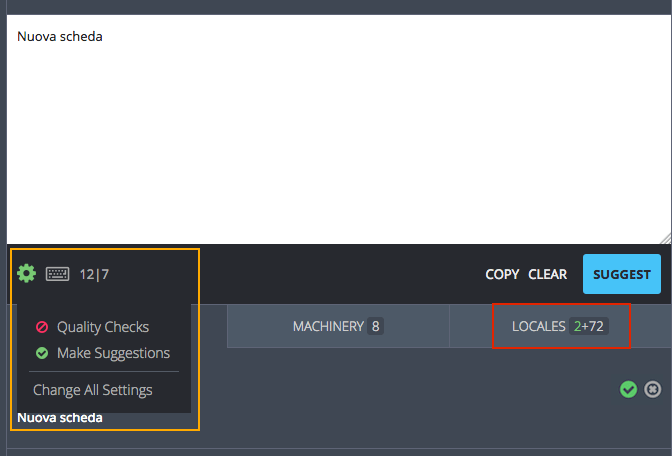
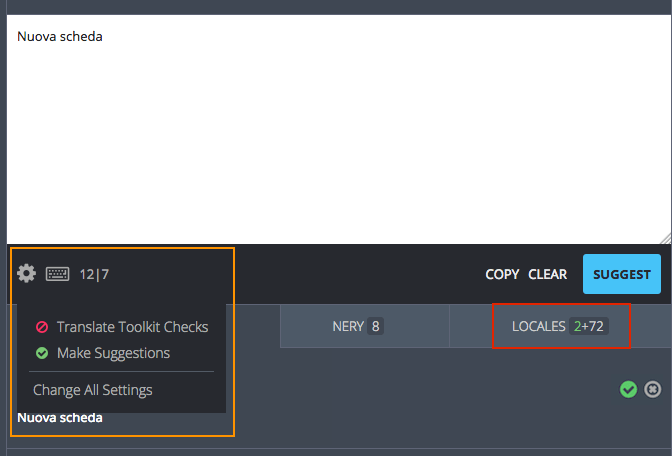
Add documentation for quality checks (bug 1237667) (#118)

diff --git a/tools/pontoon/translate.md b/tools/pontoon/translate.md
@@ -32,6 +32,32 @@ A notification will appear in the window, indicating that `Make Suggestions` has
 
 To switch to Review and Direct Translation Mode, go to the settings menu by clicking on the gear and turn off the `Make Suggestions` option. The green `SAVE` button should appear to the lower-right side of the editing space.
 
+## Quality checks
+
+When submitting a translation or suggestion, Pontoon performs automated quality checks. They are meant to help localizers identify issues with punctuation, capitalization, variables, etc. before translations are saved. There are two types of quality check failures: errors and warnings.
+
+### Errors
+
+Errors cover issues that would cause the string to be ignored, for example removed from Firefox builds or mozilla.org. For this reason, errors cannot be bypassed by localizers - the button to submit a translation is removed and the error needs to be fixed before the translation can be saved.
+
+Examples include exceeding the maximum string length, errors related to variables and placeholders, incorrect number of plural forms in properties files, etc. Errors are denoted with a red circled X.
+
+![Internal check: error](/assets/images/pontoon/translate/check_error.png)
+
+Errors are detected using the [compare-locales library](https://developer.mozilla.org/docs/Mozilla/Projects/compare-locales) and Pontoon’s internal checks.
+
+### Warnings
+
+Warnings, unlike errors, are displayed when it’s not possible to be completely sure that the string contains critical issues. For that reason, warnings can be bypassed by localizers, allowing them to save a translation anyway.
+
+Examples include punctuation, number of sentences, capitalization, etc. Warnings are denoted with a grey circled X.
+
+![Internal check: warning](/assets/images/pontoon/translate/check_warning.png)
+
+Warnings are detected using the [compare-locales library](https://developer.mozilla.org/docs/Mozilla/Projects/compare-locales) and [Translate Toolkit libraries](http://docs.translatehouse.org/projects/translate-toolkit/en/latest/).
+
+Note: since Translate Toolkit checks may result in many false positives in some scenarios, they can be [completely disabled](users.md#user-settings).
+
 ### Review a suggestion
 
 To review a suggestion, search for unreviewed suggestions or click on a suggested string in the sidebar.

diff --git a/tools/pontoon/ui.md b/tools/pontoon/ui.md
@@ -61,11 +61,11 @@ In the upper section of the workspace, the translator can view the source string
 
 The editing space is located in the lower section of the workspace. The translator can edit the translation or suggestion in the text editor.
 
-To the lower-right side of the workspace, the translator can `COPY` the source string to the editor, `CLEAR` the area where translations are typed, and `SUGGEST` or `SAVE` the translation by clicking the corresponding button.
+To the lower-right side of the workspace, the translator can `COPY` the source string to the editor, `CLEAR` the area where translations are typed, and `SUGGEST` or `SAVE` the translation by clicking the corresponding button. This area is also used to [display warnings and errors](translate.md#quality-checks) when submitting a translation.
 
 To the lower-left side, a translator can access the workspace settings, keyboard shortcuts, and view the number of characters in the target and source string.
 
-By clicking the gear icon, the translator can activate or deactivate `Quality Checks` or `Make Suggestions` and navigate to their user settings.
+By clicking the gear icon, the translator can activate or deactivate `Translation Toolkit Checks` or `Make Suggestions` and navigate to their user settings.
 
 ![Settings menu](/assets/images/pontoon/ui/settings.png)
 

diff --git a/tools/pontoon/users.md b/tools/pontoon/users.md
@@ -26,8 +26,8 @@ It’s also possible to set the default homepage displayed when visiting Pontoon
 
 ![Pontoon login](/assets/images/pontoon/users/profile_page.png)
 
-Both *Quality checks* and *Make suggestions* are checkboxes. In the picture above *Quality checks* is disabled while *Make suggestions* is enabled.
-* *Quality checks* (check for number of sentences, placeholders, HTML tags, punctuation, etc.) are performed when saving a translation.
+Both *Translation Toolkit Checks* and *Make suggestions* are checkboxes. In the picture above *Translation Toolkit Checks* is disabled while *Make suggestions* is enabled.
+* *Translation Toolkit Checks* (check for number of sentences, placeholders, HTML tags, punctuation, etc.) are performed when saving a translation. For more information about quality checks see [this document](translate.md#quality-checks).
 * *Make suggestions* allows a translator or a manager to submit suggestions instead of translations.
 
 Both settings can also be changed directly from the gear menu (highlighted in orange) when translating strings. User settings are also accessible from this menu by selecting *Change all settings*.

diff --git a/tools/fluent/brand_names.md b/tools/fluent/brand_names.md
@@ -24,7 +24,7 @@ close-msg = Do you want to close { -brand-short-name }?
 
 `-brand-short-name` is defined as a *term* to allow localizers to define custom attributes, for example to store grammatical properties. Mozilla tools like compare-locales won’t report those attributes as obsolete if the reference language (`en-US`) doesn’t have them. Each language is then free to put information about genders, animacy, the first letter being a vowel or not, and any more into attributes of terms.
 
-Here's an example in English:
+Here’s an example in English:
 
 ```PROPERTIES
 -brand-name = Firefox

diff --git a/misc/bugzilla_l10n.md b/misc/bugzilla_l10n.md
@@ -73,7 +73,7 @@ The list of your saved searches can be displayed by clicking in the search field
 
 ![Remember search](/assets/images/bugzilla/saved_searches.png)
 
-At the bottom of the page displaying search results, there’s a link to delete the saved search just performed (*Forget Search 'NAME'*).
+At the bottom of the page displaying search results, there’s a link to delete the saved search just performed (*Forget Search “NAME”*).
 
 Note that you can select multiple products and multiple statuses (including *UNCONFIRMED*) to refine or expand the search criteria.
 
